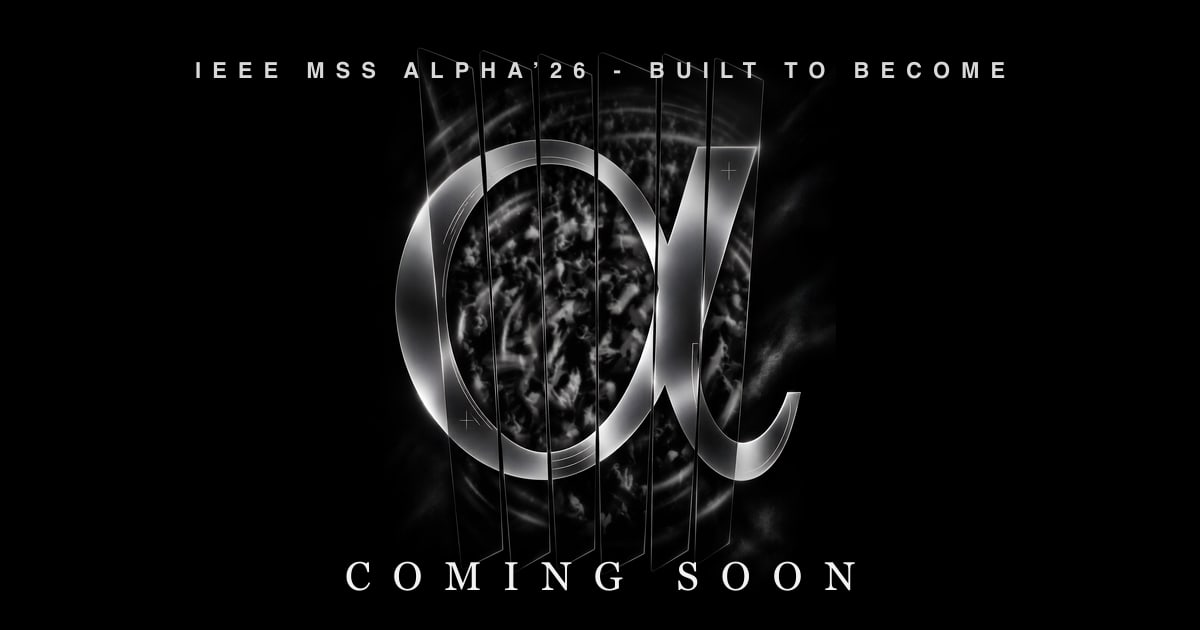
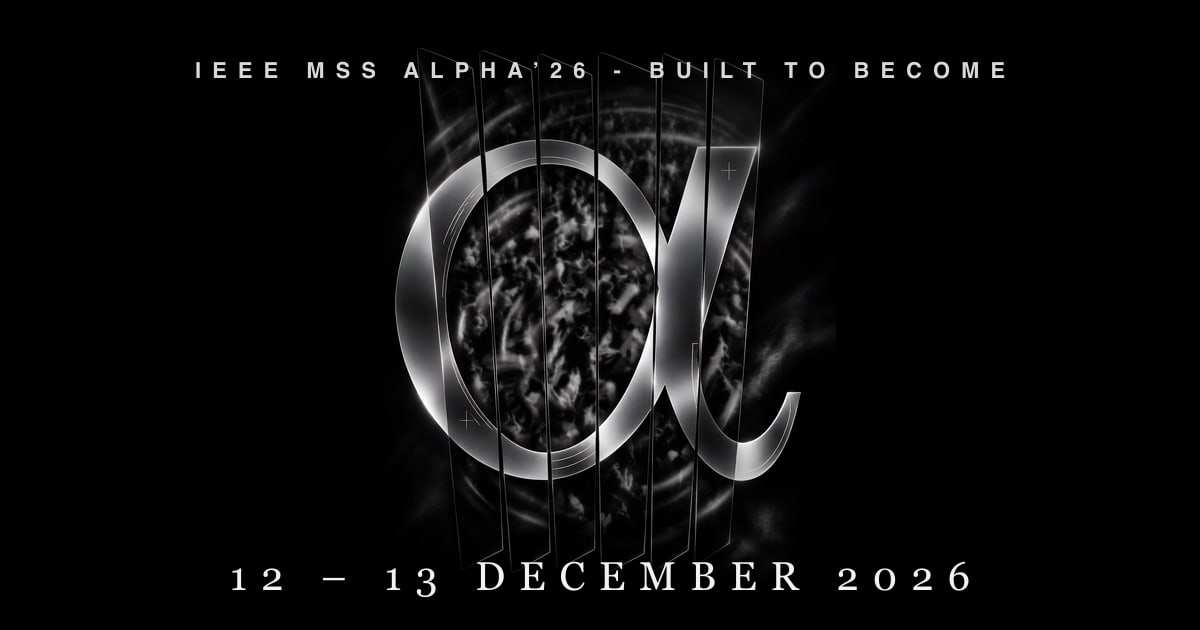
content(hero): event dates 12 – 13 December 2026 replace COMING SOON
site.dates is now 2026-12-12 → 2026-12-13 and the dates flag is on, so the
dates also reach JSON-LD (startDate/endDate). The hero h1 shows
site.dates.display; the separate flagged dates eyebrow is gone.

The date line is set in Sora rather than Switella (its stencil digits read
as 1Z – 15 / ZUZ6) and tracked tighter so it fits the poster width from
360px up. OG image regenerated with the dates. Tests and README updated,
including a mobile test that no three.js chunk is requested.

Changed region(s): [[0.2775, 0.8746, 0.8325, 0.9651], [0.185, 0.9048, 0.2467, 0.9349]]

diff --git a/src/components/Hero/island.ts b/src/components/Hero/island.ts
@@ -8,7 +8,7 @@ export default function hero(section: HTMLElement): () => void {
   const copy = section.querySelector<HTMLElement>('[data-hero-copy]')!;
   const caption = section.querySelector<HTMLElement>('[data-caption]')!;
   const title = section.querySelector<HTMLElement>('[data-title]')!;
-  const extras = Array.from(section.querySelectorAll<HTMLElement>('[data-dates], [data-cta]'));
+  const extras = Array.from(section.querySelectorAll<HTMLElement>('[data-cta]'));
   const cue = section.querySelector<HTMLElement>('[data-cue]')!;
   const rm = reducedMotion();
 
@@ -26,7 +26,7 @@ export default function hero(section: HTMLElement): () => void {
     tl.fromTo(scene, { opacity: 0, ...soft(10) }, { opacity: 1, ...soft(0), duration: 1.5, ease: 'power2.out' }, 0)
       // settle to whatever tracking the CSS sets for this viewport (tighter on phones)
       .add(settleTracking(caption, `${parseFloat(capTrack) * 2.6}px`, capTrack), 0.9)
-      .add(settleTracking(title, `${parseFloat(titleTrack) * 1.8}px`, titleTrack), 1.2)
+      .add(settleTracking(title, `${parseFloat(titleTrack) * 1.4}px`, titleTrack), 1.2)
       .to(cue, { opacity: 1, duration: 1 }, 2.3);
     if (extras.length) tl.fromTo(extras, { opacity: 0, y: 10 }, { opacity: 1, y: 0, duration: 1.2, stagger: 0.1 }, 1.5);
   });
@@ -35,7 +35,7 @@ export default function hero(section: HTMLElement): () => void {
 
   // ---- Scroll: the type disperses letter by letter while the hero holds still (sticky) ----
   //   caption       letters lift and blur away, from the centre outwards
-  //   COMING SOON   letters scatter outward along their own line, blurring — never crossing the α
+  //   the dates     letters scatter outward along their own line, blurring — never crossing the α
   // The split happens after the entrance has settled, so the two never fight over the same props.
   const scrollTl = gsap.timeline({ scrollTrigger: { trigger: section, start: 'top top', end: 'bottom bottom', scrub: 0.7 } });
   scrollTl.to(cue, { opacity: 0, ease: 'none', duration: 0.12 }, 0)

diff --git a/src/content/site.ts b/src/content/site.ts
@@ -1,7 +1,7 @@
 /**
  * Single source of truth for event copy, links and launch flags.
- * While the event is "coming soon" every flag below is false: the matching section and its
- * nav link are not rendered at all. To launch a section, set its flag to true and fill in the
+ * Until launch every section flag below is false: the matching section and its nav link are not
+ * rendered at all (only `dates` is on — the dates are public and shown in the hero). To launch a section, set its flag to true and fill in the
  * data under src/content/data/. Nothing else needs to change.
  */
 /**
@@ -15,8 +15,8 @@ const forced = String(import.meta.env.ALPHA_FLAGS ?? '')
 const on = (key: string, value: boolean) => value || forced.includes('all') || forced.includes(key);
 
 export const features = {
-  /** Show event dates in the hero / schedule. */
-  dates: on('dates', false),
+  /** Event dates in the structured data (JSON-LD) and the schedule header. The hero always shows them. */
+  dates: on('dates', true),
   /** "The Lineup" — speakers and sessions. */
   speakers: on('speakers', false),
   /** "The Venue" — host institution. */
@@ -42,8 +42,7 @@ export const site = {
   url: 'https://alpha26.pages.dev',
   description:
     "ALPHA '26 is a two-day residential industry-readiness programme by the Industry Relations Committee of IEEE Malabar Subsection, built to help engineering graduates adapt, upskill and thrive in an AI-driven job market.",
-  // Placeholders until the schedule is announced (hidden while features.dates is false).
-  dates: { start: '2026-03-07', end: '2026-03-08', display: '07 – 08 March 2026' },
+  dates: { start: '2026-12-12', end: '2026-12-13', display: '12 – 13 December 2026' },
   registrationUrl: '#register',
   socials: {
     instagram: { handle: 'ieeemalabarsubsection', url: 'https://www.instagram.com/ieeemalabarsubsection/' },

diff --git a/tests/e2e/motion.spec.ts b/tests/e2e/motion.spec.ts
@@ -6,7 +6,7 @@ test.describe('reduced motion', () => {
   test('shows the poster and copy immediately and keeps the α stage static', async ({ page }) => {
     await page.goto('/');
     await expect(page.locator('#hero [data-caption]')).toBeVisible();
-    await expect(page.locator('#hero [data-title]')).toHaveText('Coming Soon');
+    await expect(page.locator('#hero [data-title]')).toHaveText('12 – 13 December 2026');
     await page.waitForTimeout(1500);
     await expect(page.locator('[data-stage]')).not.toHaveClass(/is-webgl/);
     await expect(page.locator('.stage__fallback')).toBeVisible();
@@ -22,6 +22,19 @@ test('software WebGL keeps the static α fallback', async ({ page, isMobile }) =
   await page.waitForTimeout(2500);
   await expect(page.locator('[data-stage]')).not.toHaveClass(/is-webgl/);
   await expect(page.locator('.stage__fallback')).toBeVisible();
+});
+
+test('phones get the light α outline, never WebGL or three.js', async ({ page, isMobile }) => {
+  test.skip(!isMobile, 'mobile only');
+  const scripts: string[] = [];
+  page.on('request', (r) => { if (r.resourceType() === 'script') scripts.push(r.url()); });
+  await page.goto('/?gl=1'); // even when WebGL is forced
+  await expect(page.locator('[data-stage]')).toHaveClass(/is-lite/, { timeout: 15_000 });
+  await page.mouse.wheel(0, 1200);
+  await page.waitForTimeout(1500);
+  await expect(page.locator('[data-stage]')).not.toHaveClass(/is-webgl/);
+  await expect(page.locator('.stage__fallback')).toBeVisible();
+  expect(scripts.filter((u) => /three|EffectComposer|UnrealBloom/i.test(u))).toEqual([]);
 });
 
 test('there is no preloader; the page signals ready on its own', async ({ page }) => {

diff --git a/tests/unit/nav.test.ts b/tests/unit/nav.test.ts
@@ -5,9 +5,11 @@ import { features, type Features } from '@/content/site';
 const allOn: Features = { dates: true, speakers: true, host: true, sponsors: true, collaborators: true, registration: true };
 
 describe('launch flags', () => {
-  it('ship with every flag off while the event is coming soon', () => {
+  it('ship with every section flag off until launch — only the dates are public', () => {
     if (import.meta.env.ALPHA_FLAGS) return; // build-time override in use
-    expect(Object.values(features).every((v) => v === false)).toBe(true);
+    const { dates, ...sections } = features;
+    expect(dates).toBe(true);
+    expect(Object.values(sections).every((v) => v === false)).toBe(true);
   });
 });
 

diff --git a/tests/e2e/launched.spec.ts b/tests/e2e/launched.spec.ts
@@ -13,7 +13,7 @@ test.describe('launched build', () => {
 
   test('hero shows dates and the register CTA', async ({ page }) => {
     await page.goto('/');
-    await expect(page.locator('#hero [data-dates]')).toHaveCount(1);
+    await expect(page.locator('#hero [data-title]')).toHaveText('12 – 13 December 2026');
     await expect(page.locator('#hero [data-cta]')).toHaveText('Register');
   });
 

diff --git a/src/styles/tokens.css b/src/styles/tokens.css
@@ -22,7 +22,7 @@
   --font-mono: ui-monospace, 'SF Mono', Menlo, Consolas, monospace;
 
   --track-wide: 0.5em;      /* caption "IEEE MSS ALPHA'26 - BUILT TO BECOME" */
-  --track-display: 1em;     /* "COMING SOON" */
+  --track-display: 1em;     /* display lines */
   --track-eyebrow: 0.3em;
   --track-nav: 0.18em;
 

diff --git a/README.md b/README.md
@@ -7,7 +7,7 @@ Industry Relations Committee of IEEE Malabar Subsection.
 - [Astro 5](https://astro.build) — static output, zero JS by default
 - Vanilla-TS **islands** (`src/lib/island.ts`) — each section's behaviour is lazy-loaded when it nears the viewport
 - [GSAP 3](https://gsap.com) (ScrollTrigger, SplitText) + [Lenis](https://lenis.darkroom.engineering) for motion
-- [three.js](https://threejs.org) — the persistent α stage only (built on the visitor's first interaction)
+- [three.js](https://threejs.org) — the persistent α stage, desktop only (built on the visitor's first interaction; phones never download it)
 - Vitest (unit) · Playwright (e2e) · Sharp via `astro:assets` (AVIF/WebP)
 - Hosted on **Cloudflare Pages** — build `npm run build`, output `dist`
 
@@ -32,14 +32,17 @@ npm run build      # production build to dist/
   long "poster" lens into the tour, then stations (`stations.ts`, unit-tested) — turned aside for the programme, low
   blueprint view for the pillars, through the bowl for the statement, behind for the team, plan view under the photo
   collage, back to the poster frame for contact. Static poster / α outline for reduced motion, missing WebGL2 or
-  software-only GPUs (`?gl=1` forces WebGL).
+  software-only GPUs (`?gl=1` forces WebGL). **Desktop only** — see Mobile below.
 - **Opening loader → hero** (`src/components/Loader/`): the α outline draws itself exactly where the hero α sits, metal
   rises inside it, the black clears and the chrome α resolves inside the outline as the poster type settles — one
   sequence. Once per session; never for reduced motion.
-- **Hero**: caption, COMING SOON and handle placed as in the poster; on scroll each leaves on its own path — the caption
-  rises and opens its tracking, COMING SOON sinks and spreads, the handle drops — while the camera dollies in.
-- **Mobile**: on portrait screens the tour camera pulls back and keeps the α centred and dimmed behind copy; spacing
-  tightens; the stage is built on first touch.
+- **Hero**: caption and the event dates (`site.dates.display`, set in Sora — Switella's stencil digits misread)
+  placed as in the poster; on scroll each leaves on its own path — the caption's letters lift away, the date's
+  letters scatter along their line — while the camera dollies in.
+- **Mobile** (touch devices and viewports ≤ 900px, `lite()` in `src/lib/motion/core.ts`): **no WebGL and no
+  three.js download**. The hero poster recedes on scroll and the α outline behind the page drifts, turns and grows
+  with the scroll (`src/components/Stage/lite.ts`, one transform-only scrubbed timeline) with a slow CSS "breath".
+  Spacing tightens.
 - **Layout**: no tidy column — blocks hold different columns and corners, and every `data-speed` element drifts at
   its own speed (`src/lib/motion/parallax.ts`). Text focuses in out of a blur line by line and blurs away as it
   leaves (`src/lib/motion/reveal.ts`).
@@ -60,7 +63,7 @@ public/fonts/             subset woff2 (regenerate with `npm run fonts:subset`)
 ```
 
 ## Launching hidden sections
-The event is currently "coming soon". Speakers, venue, partners, dates and registration are fully built but
+The dates (12 – 13 December 2026) are public. Speakers, venue, partners and registration are fully built but
 **not rendered** (neither the section nor its nav link appears in the HTML) while their flag is off.
 
 1. Open `src/content/site.ts` and flip the flag(s) in `features` to `true`.
@@ -81,7 +84,7 @@ npm run e2e:launched               # Playwright suite for the launched layout
 | `host` | The Venue (nav: Venue) | `content/organisers.ts` → `host` |
 | `sponsors` | Powered Together (nav: Partners) | `data/sponsors.json` |
 | `collaborators` | collaborators strip inside Partners | `data/collaborators.json` |
-| `dates` | dates in hero + schedule | `site.dates` |
+| `dates` (on) | dates in JSON-LD + schedule header (the hero always shows them) | `site.dates` |
 | `registration` | register CTA in hero + footer | `site.registrationUrl` |
 
 ## Deployment (Cloudflare Pages)
